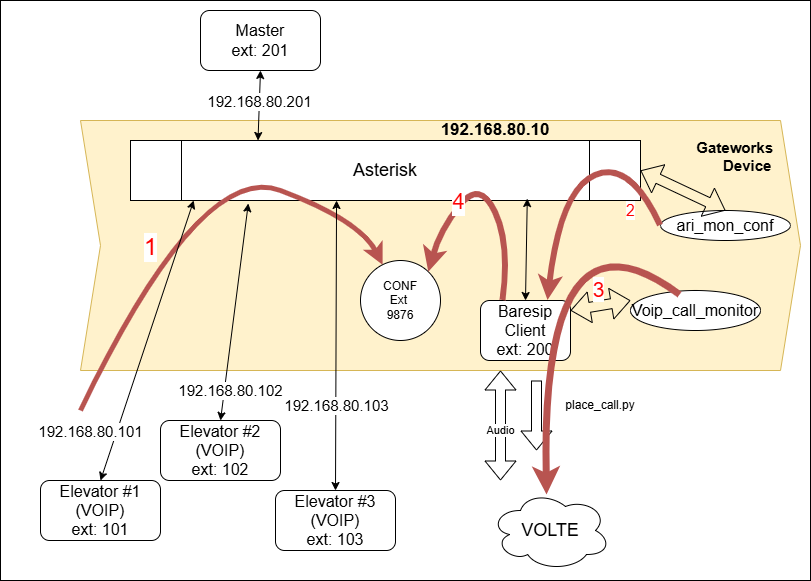
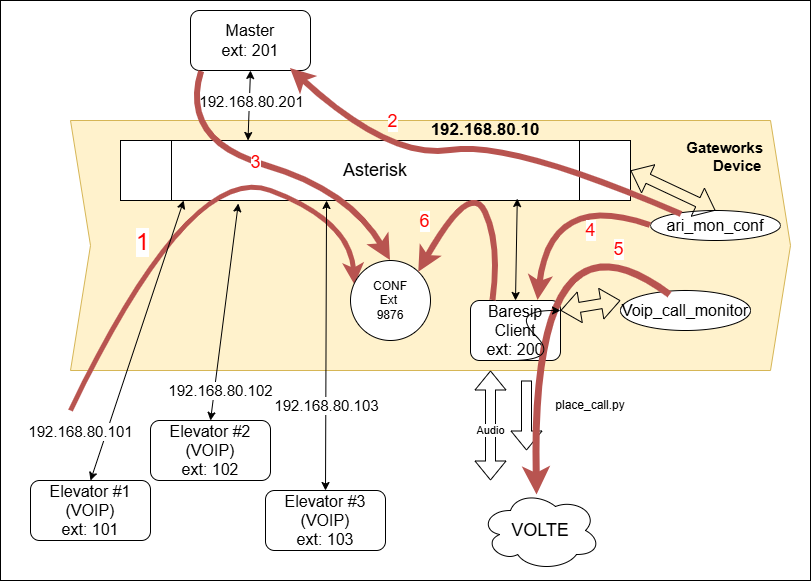
feat:Clean up doc files keeping track of changes.
Updated README.md and  GateworkVOIPProgramming.md  with call setup details,
along with the diagram source and published output.

 On branch br_ext_201_setup
 Changes to be committed:
	modified:   GateworkVOIPProgramming.md
	modified:   README.md
	modified:   VOIP/VOIPLayout.drawio
	modified:   VOIP/VOIPLayout.png

diff --git a/README.md b/README.md
@@ -107,7 +107,7 @@ This repository contains scripts, configurations, and documentation for the King
 | `modem_utils.py` | `.` | Shared module for Telit LE910C1 modem communication providing AT command functions, network registration checking, modem configuration, and TCP socket operations |
 | `place_call.py` | `.` | Initiates VoIP calls using baresip, handles audio routing, and logs call events; refactored to use shared modem_utils module |
 | `send_EDC_info.py` | `.` | Sends EDC (Emergency Dispatch Center) information packets to remote servers via the cellular modem using TCP; reports extension number, site information, and modem details |
-| `ari-mon-conf.py` | `VOIP/asterisk/` | ARI-based conference monitor that automatically adds a specified extension as admin when the first participant joins a ConfBridge conference; captures calling extension for EDC reporting |
+| `ari-mon-conf.py` | `VOIP/asterisk/` | ARI-based conference monitor that automatically calls admin extension when first participant joins a ConfBridge conference. Implements intelligent fallback: tries extension 201 first (15-second timeout), then falls back to extension 200 (LTE) if unanswered. Captures calling extension for EDC reporting |
 | `voip_call_monitor_tcp.py` | `VOIP/` | Monitors baresip via TCP socket interface, handles incoming calls, launches place_call.py for audio routing, and triggers EDC info packet transmission when calls are established |
 | `voip_call_rerouting.py` | `VOIP/` | Monitors baresip output and automatically reroutes audio when calls are established by detecting call state changes |
 
@@ -125,10 +125,11 @@ This repository contains scripts, configurations, and documentation for the King
 | Filename | Directory | Description |
 |----------|-----------|-------------|
 | `daemon.conf` | `.` | PulseAudio daemon configuration file with settings for audio processing and system behavior |
-| `K3_config_settings` | `.` | Kings III configuration file containing site-specific settings (CID, account code, model, APN, modem UTM, battery voltage) for EDC reporting |
+| `K3_config_settings` | `.` | Kings III configuration file containing site-specific settings (CID, account code, model, APN, APP version, modem UTM, battery voltage) for EDC reporting. Generated from K3_config_settings.in template during build |
+| `K3_config_settings.in` | `.` | Template for K3_config_settings. Version-controlled template that gets populated with APP version during build process |
 | `ari.conf` | `VOIP/asterisk/` | Asterisk ARI (Asterisk REST Interface) configuration with user credentials and connection settings |
 | `asterisk.override.conf` | `VOIP/asterisk/` | Systemd override for Asterisk service, adds dependencies on network and ttyUSB2 device with delayed start and restart |
-| `confbridge.conf` | `VOIP/asterisk/` | Asterisk ConfBridge configuration defining user profiles (default_user for extensions 101-104, default_admin for extension 200) and bridge settings |
+| `confbridge.conf` | `VOIP/asterisk/` | Asterisk ConfBridge configuration defining user profiles (default_user for extensions 101-104, default_admin for extensions 200/201) and bridge settings with user count announcements |
 | `extensions.conf` | `VOIP/asterisk/` | Asterisk dialplan for elevator conference system with extension dialing (101-104, 200, 201) and conference extension 9876 |
 | `http.conf` | `VOIP/asterisk/` | Asterisk HTTP server configuration enabling the built-in HTTP server for ARI and other web interfaces |
 | `modules.conf` | `VOIP/asterisk/` | Asterisk module loader configuration specifying which modules to load or exclude |
@@ -149,7 +150,6 @@ This project implements an embedded communication system with the following key 
 ## Hardware Platforms
 
 - **Gateworks Venice GW7200** - Primary embedded platform
-- **Digiboard CC6** - Alternative platform (legacy)
 - **Telit LE910C1-NF** - 4G LTE modem module
 
 ## Key Technologies
@@ -160,8 +160,32 @@ This project implements an embedded communication system with the following key 
 - GPIO control for switches and LEDs
 - Docker containerization for cross-compilation
 - Systemd services for background monitoring
+- Asterisk ARI (REST Interface) for call control and conference management
 
-#### Configuration File (`K3_config_settings`)
+## VoIP Call Flow
+
+### Conference Admin Connection (Extensions 201 → 200 Fallback)
+
+When an elevator extension (101-104) initiates a conference call:
+
+1. **Primary Admin Call (Extension 201)**
+   - System automatically calls extension 201 first
+   - 15-second timeout begins
+   - If 201 answers within timeout → joins conference as admin
+   - Timeout is cancelled, system ready for next conference
+
+2. **Fallback Admin Call (Extension 200 - LTE)**
+   - If 201 doesn't answer within 15 seconds
+   - Extension 201 is hung up
+   - System automatically calls extension 200 (LTE cellular connection)
+   - Extension 200 joins conference as admin
+
+3. **Conference Control**
+   - Admin extension (201 or 200) has full conference privileges
+   - When admin leaves, all participants are automatically disconnected
+   - System resets and ready for next conference
+
+#### Configuration File (`K3_config_settings.in`)
 
 Contains site-specific settings:
 

diff --git a/GateworkVOIPProgramming.md b/GateworkVOIPProgramming.md
@@ -54,7 +54,10 @@ The diagram above shows the moving parts of the VOIP system.
 1. A call to the conference number (9876) is placed by extension 101 and Asterisk
 puts the caller in the conference call named 'elevator_conference'.
 1. A script "listening" to the asterisk server "hears" the conference call being
-established and dials the extension 200, which causes..
+established and dials the extension 201.
+1. If extension 201 answers the call it is placed in the conference as the admin and the
+call setup is complete. HOWEVER,
+1. If extension 201 is not answered in 15 seconds, the listening script dials 200.
 1. A script "listening" to the extension 200 client sees the incoming call which is
 answered automatically, places the call to the number provided (EDC number).
 1. Once connected the call is automatically added to the 'elevator_conference' as
